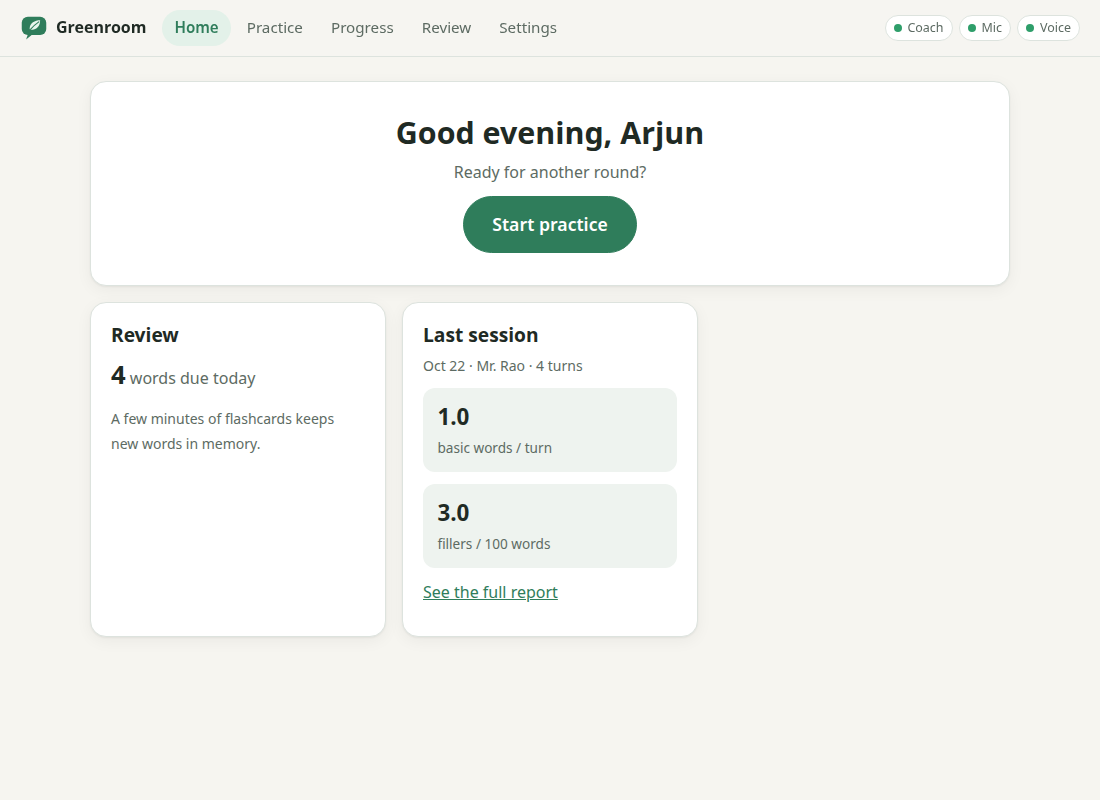
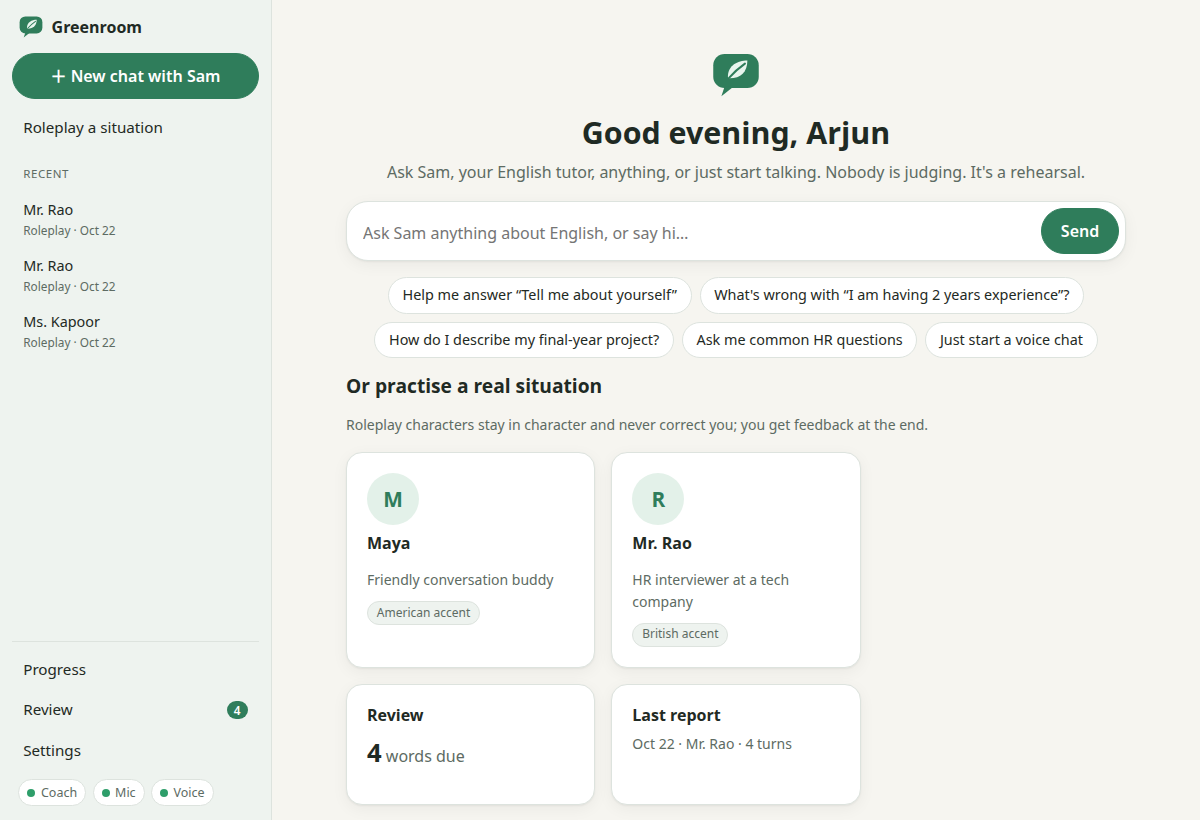
README: Tutor mode, learner-chosen feedback, memory and new screens
Documents the app comparison behind this batch, the four in-chat feedback
choices, Sam's correction styles, the help tools, memory with its
grounding check, new modules and API routes, and fresh screenshots.

diff --git a/README.md b/README.md
@@ -4,13 +4,21 @@
 
 Every performer gets a green room to prepare before going on stage. Greenroom is
 that space for English learners: an **offline, open-source English speaking
-coach** with a real desktop app. You talk (out loud, or by typing) to a
-character: a friendly buddy, an HR interviewer, a visa officer, a university
-admissions tutor, an impatient customer. A local LLM plays the role and
-answers in a natural voice, while NLP analyzers quietly study your English in
-the background. When you finish, you get a report with your own sentences
-highlighted, three practice tasks, flashcards for the words you overuse, and
-progress charts across sessions.
+coach** with a real desktop app, laid out like a chat app. Two ways to practise:
+
+- **Chat with Sam, your English tutor.** Ask anything ("what's wrong with *I am
+  having two years experience*?"), or just talk. Sam explains, corrects in the
+  style you choose, and remembers what you told it last time.
+- **Roleplay a real situation** with a character: a friendly buddy, an HR
+  interviewer, a visa officer, a university admissions tutor, an impatient
+  customer. They stay in character and never correct you.
+
+You talk out loud or type. A local LLM answers in a natural voice while NLP
+analyzers quietly study your English in the background. You choose whether
+their feedback appears as small markers under your messages during the chat or
+only in the report afterwards. Every session ends with a report: your own
+sentences highlighted, three practice tasks, flashcards for the words you
+overuse, and progress charts across sessions.
 
 Everything runs on your machine: no accounts, no cloud APIs, no CDN. Models are
 downloaded once by a setup script; after that the app works with the network
@@ -18,13 +26,14 @@ cable unplugged.
 
 | | |
 |---|---|
-| ![Conversation](docs/screenshots/conversation.png) | ![Report](docs/screenshots/report.png) |
-| **Conversation**: push-to-talk or hands-free, live transcript, the coach speaks back | **Report**: findings highlighted in your own words, hover for the why and the fix |
+| ![Tutor chat](docs/screenshots/tutor_chat.png) | ![Report](docs/screenshots/report.png) |
+| **Chat with Sam**: feedback markers under your message, "Say it better", word meanings, ideas when you're stuck | **Report**: findings highlighted in your own words, hover for the why and the fix |
 
 ## Contents
 
 - [Quick start](#quick-start)
 - [The screens](#the-screens)
+- [Tutor mode and in-chat feedback](#tutor-mode-and-in-chat-feedback)
 - [How it works](#how-it-works)
 - [Every module explained](#every-module-explained)
 - [Evaluation](#evaluation)
@@ -59,7 +68,7 @@ pywebview can't start). Closing the window stops the app.
 Developer commands:
 
 ```bash
-python -m pytest -q                      # 75 tests; no GPU, mic, Ollama or downloads needed
+python -m pytest -q                      # 88 tests; no GPU, mic, Ollama or downloads needed
 python -m eval.eval_vocab --table        # vocabulary: baseline vs DistilBERT
 python -m eval.eval_grammar --table      # grammar correction P/R/F1
 python -m coach.config                   # detected hardware + effective config
@@ -72,22 +81,25 @@ python -m coach.stt recording.webm       # transcribe a file
 | | |
 |---|---|
 | ![Onboarding](docs/screenshots/onboarding.png) | ![Home](docs/screenshots/home.png) |
-| **1. Onboarding** (first run): name, goal, level A2–C1, accent, study destination | **2. Home**: greeting, start practice, flashcards due, last session |
+| **1. Onboarding** (first run): name, goal, level A2–C1, accent, study destination | **2. Start page**: ask Sam anything, conversation starters for your goal, roleplays; the sidebar keeps your recent conversations |
+| ![Tutor chat](docs/screenshots/tutor_chat.png) | ![Roleplay with feedback](docs/screenshots/roleplay_feedback.png) |
+| **3. Chat with Sam**: markdown answers, markers under your messages, "Say it better", hints, word meanings | **4. Roleplay**: the character stays in character; with "Gently" chosen, one tip appears under your message |
 | ![Characters](docs/screenshots/characters.png) | ![Conversation](docs/screenshots/conversation.png) |
-| **3. Choose character**: filtered by your goal + everyday practice; accent shown | **4. Conversation**: big mic button, hands-free toggle, text fallback |
+| **Choose a roleplay**: filtered by your goal + everyday practice; accent shown | **Voice**: push-to-talk or hands-free (barge-in), live transcript |
 | ![Report](docs/screenshots/report.png) | ![Progress](docs/screenshots/progress.png) |
 | **5. Report**: highlights, 3 exercises, numbers | **6. Progress**: trends (inline SVG), most-flagged words, all sessions |
 | ![Review](docs/screenshots/review.png) | ![Settings](docs/screenshots/settings.png) |
-| **7. Review**: flashcards with Again / Hard / Good / Easy (SM-2) | **8. Settings**: profile, accent, hands-free pause, model status |
+| **7. Review**: flashcards with Again / Hard / Good / Easy (SM-2) | **8. Settings**: profile, in-chat feedback, Sam's corrections, what Sam remembers, model status |
 
 The layout also works at phone width:
 
-<img src="docs/screenshots/phone_home.png" width="260" alt="Home at phone width"> <img src="docs/screenshots/phone_report.png" width="260" alt="Report at phone width">
+<img src="docs/screenshots/phone_home.png" width="240" alt="Start page at phone width"> <img src="docs/screenshots/phone_sidebar.png" width="240" alt="Sidebar as a drawer at phone width"> <img src="docs/screenshots/phone_report.png" width="240" alt="Report at phone width">
 
 **Characters** (one JSON file each in `personas/`, so adding one = adding a file):
 
 | Character | Role | Goals | Voice |
 |---|---|---|---|
+| **Sam** | **English tutor** (Tutor mode, `"mode": "tutor"`) | everyone | American female |
 | Maya | friendly conversation buddy | general | American female |
 | Mr. Rao | HR interviewer at a tech company | placements, job | British male |
 | Ms. Kapoor | slightly impatient customer on a helpline (you're the agent) | job | American female |
@@ -98,6 +110,73 @@ The layout also works at phone width:
 study abroad uses the destination (UK, Ireland, Australia, New Zealand → British;
 USA, Canada → American); otherwise each character keeps its own accent. The
 character's gender never changes.
+
+## Tutor mode and in-chat feedback
+
+### What the top apps do, and what Greenroom took from them
+
+Before this part was built, the features of the leading English-speaking apps
+were compared from their public descriptions and reviews (not by decompiling
+them: that breaks their terms, and their real value runs on their servers
+anyway):
+
+| Idea | Seen in | In Greenroom |
+|---|---|---|
+| Ask a tutor anything mid-practice | Speak's in-app tutor, Praktika, ChatGPT | **Sam** (Tutor mode) |
+| Feedback inside the conversation | Speak's in-chat feedback; LocalTeacher's correction styles | **Feedback markers** you switch on or off |
+| Remembers you between sessions | Praktika | **Memory** (facts + recurring mistakes) |
+| Roleplays of real situations, feedback afterwards | Speak, Duolingo Max (Roleplay) | Roleplay characters + report (Phases 1–6) |
+| Phoneme-level pronunciation scores | ELSA Speak | planned (Future work) |
+| Exam mock with a band estimate | Stimuler, ELSA Speech Analyzer | planned (Future work) |
+
+### In-chat feedback: the learner chooses
+
+Research on correcting spoken mistakes points both ways: explicit corrections
+are taken up more often than corrections hidden inside the teacher's reply
+(about 50% vs 31% in Lyster & Ranta's classroom study), but how corrections
+affect anxiety depends on the learner's level. So Greenroom lets the learner
+choose, in Settings or with the **Feedback** switch at the top of every chat:
+
+| Choice | During the chat | When to use it |
+|---|---|---|
+| **After the session** (default) | nothing; everything is in the report | focus on fluency, interview rehearsal |
+| **Only with Sam** | markers in tutor chats; roleplays stay clean | learning with Sam, performing in roleplays |
+| **Gently, in every chat** | the single most important mistake per message (grammar > weak words > fillers) | a light touch everywhere |
+| **Every mistake** | all markers, in every chat | focused accuracy practice |
+
+Whatever the choice, **feedback is only ever a marker under the learner's own
+message**; roleplay characters never break character to correct. The markers
+come from the same background analyzers as the report, so they appear a moment
+after the reply and never slow it down. Sam's own spoken corrections are a
+separate setting: gentle (the most important mistake), thorough (up to three) or off.
+
+Both styles were built so they can be compared in use: "Only with Sam" keeps
+correction inside the tutor, "Gently" / "Every mistake" bring it into roleplays.
+
+### Help that never interrupts
+
+- **Need an idea?** Three things you could say next, at your level (any chat).
+- **Say it better**: a fluent version of one of your messages and the main reason
+  (with Sam always; in roleplays only when you chose in-chat feedback).
+- **Word meanings**: select a word in the coach's reply to get a simple
+  meaning, the part of speech and an example.
+- **Play again** on any reply; resumed chats are re-voiced on request.
+
+Each helper is one extra LLM call made only when you press the button, and its
+answer is forced into a JSON schema (Ollama structured outputs), so a small
+model can't break the format the app reads.
+
+### Memory: what Sam remembers
+
+When a tutor chat closes, the LLM reads **only the learner's own messages** and
+lists up to five new facts ("final-year CSE student from Coimbatore", "TCS
+interview next Monday"). Small models make things up, so every fact is checked
+against the learner's words (`memory.grounded()`): if most of its content words
+weren't said, it is dropped. This caught a real case where the 3B model copied
+an example out of the prompt. Recurring mistakes (overused words, grammar slips
+with their fixes) come straight from the reports, with no LLM involved. Both go
+into Sam's prompt; roleplay characters never get them (a real interviewer doesn't
+know your hobbies). Settings shows every fact, with forget-one and forget-all.
 
 ## How it works
 
@@ -170,12 +249,12 @@ it had already produced in its memory, and your new turn starts.
 |---|---|
 | `config.py` | The only place config is read. Hardware defaults (Whisper size/device from GPU VRAM) ← `config.json` ← CLI flags. |
 | `errors.py` | `Unavailable`: the one exception for "this optional feature can't run here", carrying the fix-it message. |
-| `llm.py` | Streaming Ollama client; availability check; warm-up and `keep_alive` so the model stays loaded (cold load measured at 16 s). |
+| `llm.py` | Ollama client: streaming chat for conversations, `complete_json()` (structured output) for helpers; availability check; warm-up and `keep_alive` so the model stays loaded (cold load measured at 16 s). |
 | `stt.py` | faster-whisper wrapper: decodes the browser's webm/opus with PyAV, English only, Silero VAD filter (no hallucinated text on silence), greedy decoding, and a disfluent `initial_prompt` so Whisper keeps "um" and repeated words instead of cleaning them up. |
 | `tts.py` | Kokoro-82M via kokoro-onnx on the CPU; persona voice key → Kokoro voice; British voices use the en-gb phonemizer; returns 16-bit WAV. Checksum-verified download. |
 | `text_stream.py` | `SentenceChunker`: token stream → whole sentences (abbreviations, decimals, initials, quotes handled). |
 | `voice.py` | `VoicePipeline`: one turn = STT → LLM → sentences → TTS, yielding events; measures `stt_s`, `llm_first_token_s`, `tts_first_audio_s`, `total_s`. |
-| `session.py` | One conversation: chat history, background analysis (one worker thread, spaCy isn't thread-safe), the "wait for the reply" gate, partial replies on barge-in, latency averages, the session record. |
+| `session.py` | One conversation: chat history, background analysis (one worker thread, spaCy isn't thread-safe), the "wait for the reply" gate, partial replies on barge-in, latency averages, the session record; `resume()` reopens a saved tutor chat and `ready_feedback()` hands finished findings to the UI without waiting. |
 | `nlp.py` | Shared spaCy pipeline (`en_core_web_sm`), run once per turn. |
 | `analyzers/base.py` | The contract: `Finding`, `AnalyzerResult`, `Analyzer`. |
 | `analyzers/vocabulary.py` | Overused basic words (lemma + POS), intensifier phrases, idiom/phrasal-verb guards, type-token ratio, lemminflect inflection, and DistilBERT contextual ranking. |
@@ -186,25 +265,33 @@ it had already produced in its memory, and your new turn starts.
 | `exercises.py` | Three practice tasks from the top issues, fixed templates per finding kind (no LLM), one per kind first. |
 | `srs.py` | SM-2 spaced repetition (grades 0/3/4/5). |
 | `progress.py` | Series over sessions for the charts; most-flagged vocabulary. |
-| `storage.py` | SQLite at `userdata/greenroom.db`: profile, sessions (record + summary JSON), review cards. Also exports each session to `sessions/*.json`. |
-| `personas.py` | Loads characters, builds the system prompt (level + rules), filters by goal, resolves the accent. |
+| `storage.py` | SQLite at `userdata/greenroom.db`: profile, conversations (record + summary JSON, mode, title), review cards, memory. Migrates older databases in place. Also exports each session to `sessions/*.json`. |
+| `personas.py` | Loads characters, builds the system prompt (level + rules; roleplay vs tutor rules with gentle / thorough / off corrections), filters roleplays by goal, resolves the accent. |
+| `memory.py` | What Sam remembers: facts extracted after tutor chats (checked against the learner's words) and recurring mistakes from the reports, turned into a paragraph for Sam's prompt. |
+| `tutor_tools.py` | The on-demand helpers: hint, say it better, word meaning; each one JSON-schema LLM call. |
 | `engines.py` | Loads and warms all models in a background thread at start-up; live status for the UI. |
-| `server.py` | FastAPI app: the API below + serves `web/`. Each turn runs in its own worker thread and streams NDJSON. |
+| `server.py` | FastAPI app: the API below + serves `web/`. Each turn runs in its own worker thread and streams NDJSON. Applies the in-chat feedback choice; saves open chats when the app shuts down. |
 
 **API** (all local): `GET /api/status` · `GET/PUT /api/profile` · `GET /api/home` ·
-`GET /api/personas` · `POST /api/sessions` (opening line + audio) ·
+`GET /api/personas` · `GET /api/conversations` (sidebar) ·
+`POST /api/sessions` (roleplay, tutor, or `resume_id` of a saved tutor chat) ·
 `POST /api/sessions/{id}/turn` (text or audio → NDJSON: `transcript`, `text`,
 `audio` (base64 WAV per sentence), `done`) · `POST /api/sessions/{id}/abort` ·
-`POST /api/sessions/{id}/end` (report) · `GET /api/reports/{id}` ·
-`GET /api/progress` · `GET /api/review/due` · `POST /api/review/{card}`.
+`GET /api/sessions/{id}/feedback` (markers, filtered by the learner's choice) ·
+`POST /api/sessions/{id}/hint` · `POST /api/sessions/{id}/better` · `POST /api/define` ·
+`POST /api/speak` · `POST /api/sessions/{id}/end` (report) · `GET /api/reports/{id}` ·
+`GET /api/progress` · `GET /api/review/due` · `POST /api/review/{card}` ·
+`GET /api/memory` · `DELETE /api/memory[/{id}]`.
 
 **`web/` (the UI: plain HTML/CSS/JS, ES modules, no build step, no CDN)**
 
 | File | What it does |
 |---|---|
-| `index.html`, `style.css` | Shell and styles: calm palette, light/dark, big targets, phone layout. |
-| `js/app.js` | Hash router and all screens except the conversation; report highlighting with overlapping spans; popovers (hover, tap, keyboard). |
-| `js/talk.js` | The conversation: states (listening / thinking / speaking / idle), push-to-talk (hold, tap-to-toggle, Space), typed turns, NDJSON reading, hands-free wiring, barge-in. |
+| `index.html`, `style.css` | Chat-app shell (sidebar with recent conversations, a drawer on phones) and styles: calm palette, light/dark, big targets. |
+| `js/app.js` | Hash router, sidebar and every screen except the conversation (start page, roleplays, report, progress, review, settings with memory). |
+| `js/talk.js` | The conversation, for Sam and for roleplays: states (listening / thinking / speaking / idle), push-to-talk (hold, tap-to-toggle, Space), typed turns, NDJSON reading, hands-free wiring, barge-in, feedback markers, hints, say it better, word meanings, resuming. |
+| `js/feedback.js` | Findings highlighted inside the learner's sentence, with popovers (hover, tap, keyboard); shared by the report and the chat. |
+| `js/markdown.js` | A tiny, safe markdown renderer for Sam's replies (escapes HTML first). |
 | `js/audio.js` | `Mic` (getUserMedia with echo cancellation, MediaRecorder, RMS level) and `CoachPlayer` (decodes and plays sentence WAVs back to back, in order; instant stop). |
 | `js/vad.js` | `EnergyVAD`: hands-free voice activity detection (below). |
 | `js/charts.js` | A 40-line inline-SVG line chart (no chart library). |
@@ -352,15 +439,18 @@ The hands-free pause length is per learner (Settings, 0.6–3.0 s, default 1.2 s
 
 ## Tests
 
-`python -m pytest -q` runs **75 tests in ~4 s** with fakes for the LLM, STT, TTS,
+`python -m pytest -q` runs **88 tests in ~5 s** with fakes for the LLM, STT, TTS,
 fill-mask model and grammar corrector (`tests/fakes.py` and per-test fakes), so
 no GPU, microphone, Ollama or downloaded model is needed. They cover the
 sentence chunker, the voice pipeline (event order, latency, barge-in),
 storage, the full HTTP API (including abort and offline LLM), persona
 filtering and accents, the analyzers (baseline, BERT ranking, inflection,
 idioms, grammar diffing), the analysis gate, exercises, SM-2 and review
-cards. The browser's VAD is unit-tested in JavaScript (`tests/js/test_vad.mjs`,
-run by pytest when Node.js is installed).
+cards, and Tutor mode (prompts, memory and its grounding check, all four
+in-chat feedback choices in both modes, hints, say it better, word meanings,
+resuming, saving open chats on shutdown). The browser's VAD and markdown
+renderer are unit-tested in JavaScript (`tests/js/*.mjs`, run by pytest when
+Node.js is installed).
 
 The UI was exercised end to end in real Chrome with real models (Playwright,
 with Chrome's fake microphone playing recorded learner speech): onboarding,
@@ -386,12 +476,24 @@ progress and settings, with no console errors.
 - The desktop window was verified on Linux (Wayland, Qt WebEngine); macOS and
   Windows use pywebview's native backends and were not tested.
 
+- **The 3B model is the weak spot of the helpers.** Observed: it labelled
+  "sounds" a preposition, and one "Say it better" kept "very good". A stronger
+  ≤5B model (Qwen3 4B Instruct) has been downloaded for comparison.
+- Memory extraction can still miss facts or keep a half-true one; the
+  grounding check removes invented facts, not misunderstood ones. Settings lets
+  the learner delete any fact.
+
 ## Future work
 
 - Faster first audio: Kokoro on the GPU (onnxruntime-gpu) on cards with more
   VRAM, the int8 Kokoro model, or speaking the first clause before the first
   full stop.
-- Pronunciation feedback with a phoneme-level model and forced alignment.
+- Measure Qwen3 4B Instruct against qwen2.5:3b as the tutor (quality of answers,
+  latency, VRAM next to Whisper on a 4 GB GPU) and switch if it wins.
+- Pronunciation feedback with a phoneme-level model (wav2vec2 phoneme
+  recognition vs expected phonemes), evaluated on the speechocean762 corpus.
+- An IELTS Speaking mock (Parts 1–3) with a clearly labelled band estimate;
+  custom scenarios from a job description or résumé.
 - A grammar model fine-tuned on Indian-English learner data (better recall on
   tense/aspect errors), and grammar flashcards.
 - A CEFR word list instead of the hand-made lexicon; collocation suggestions.
